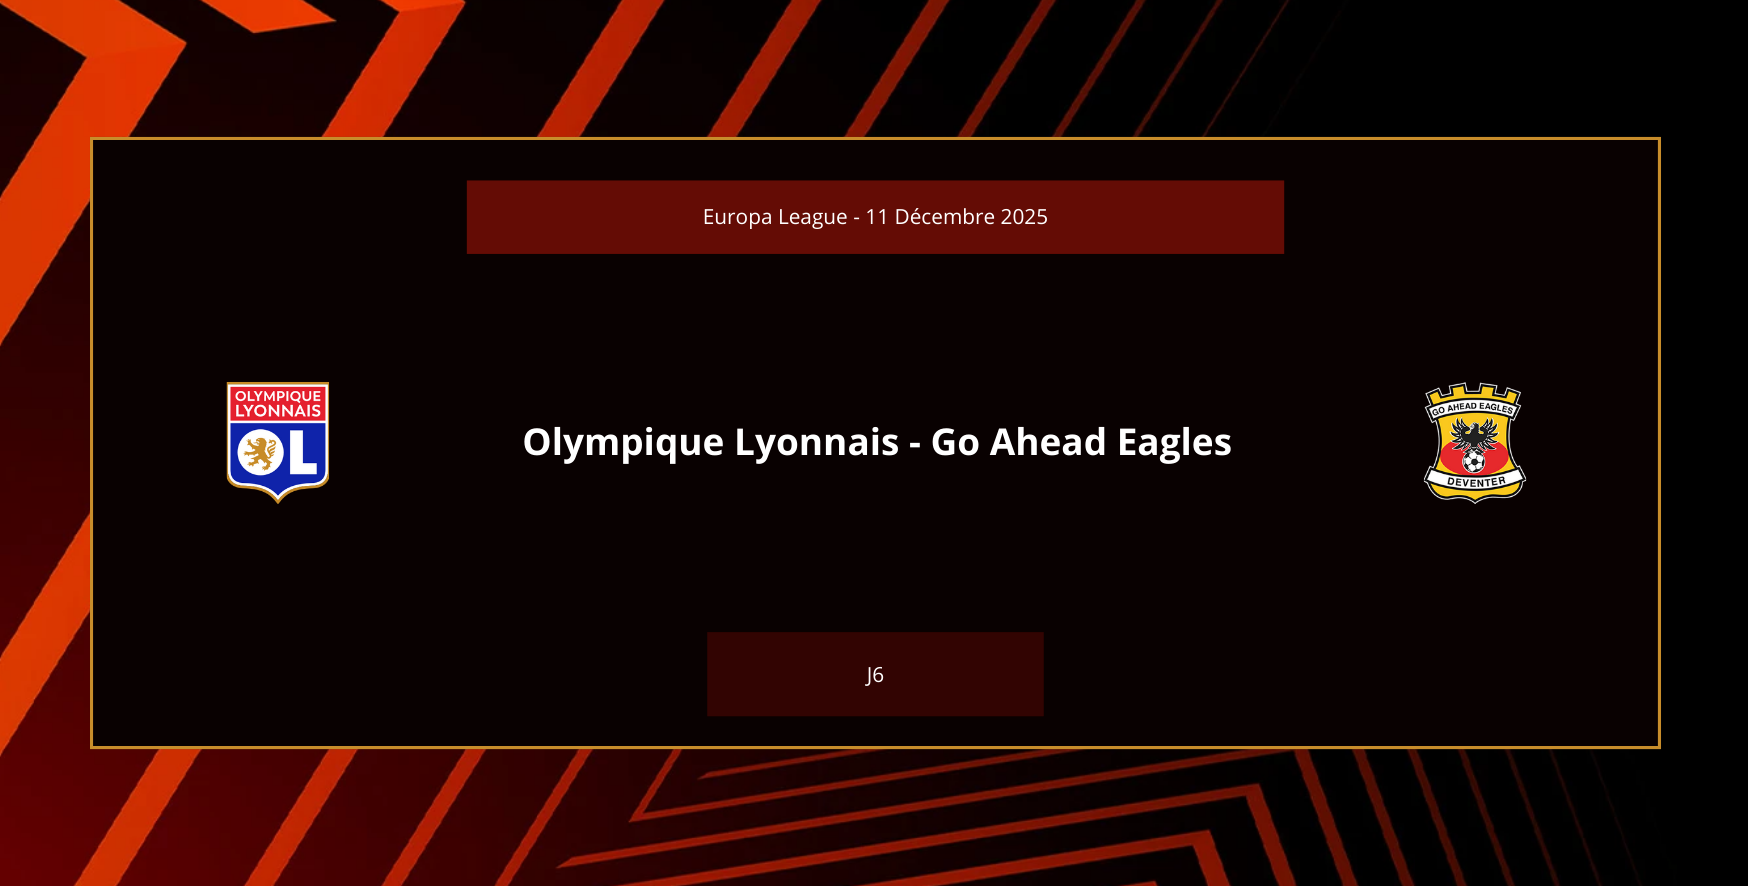
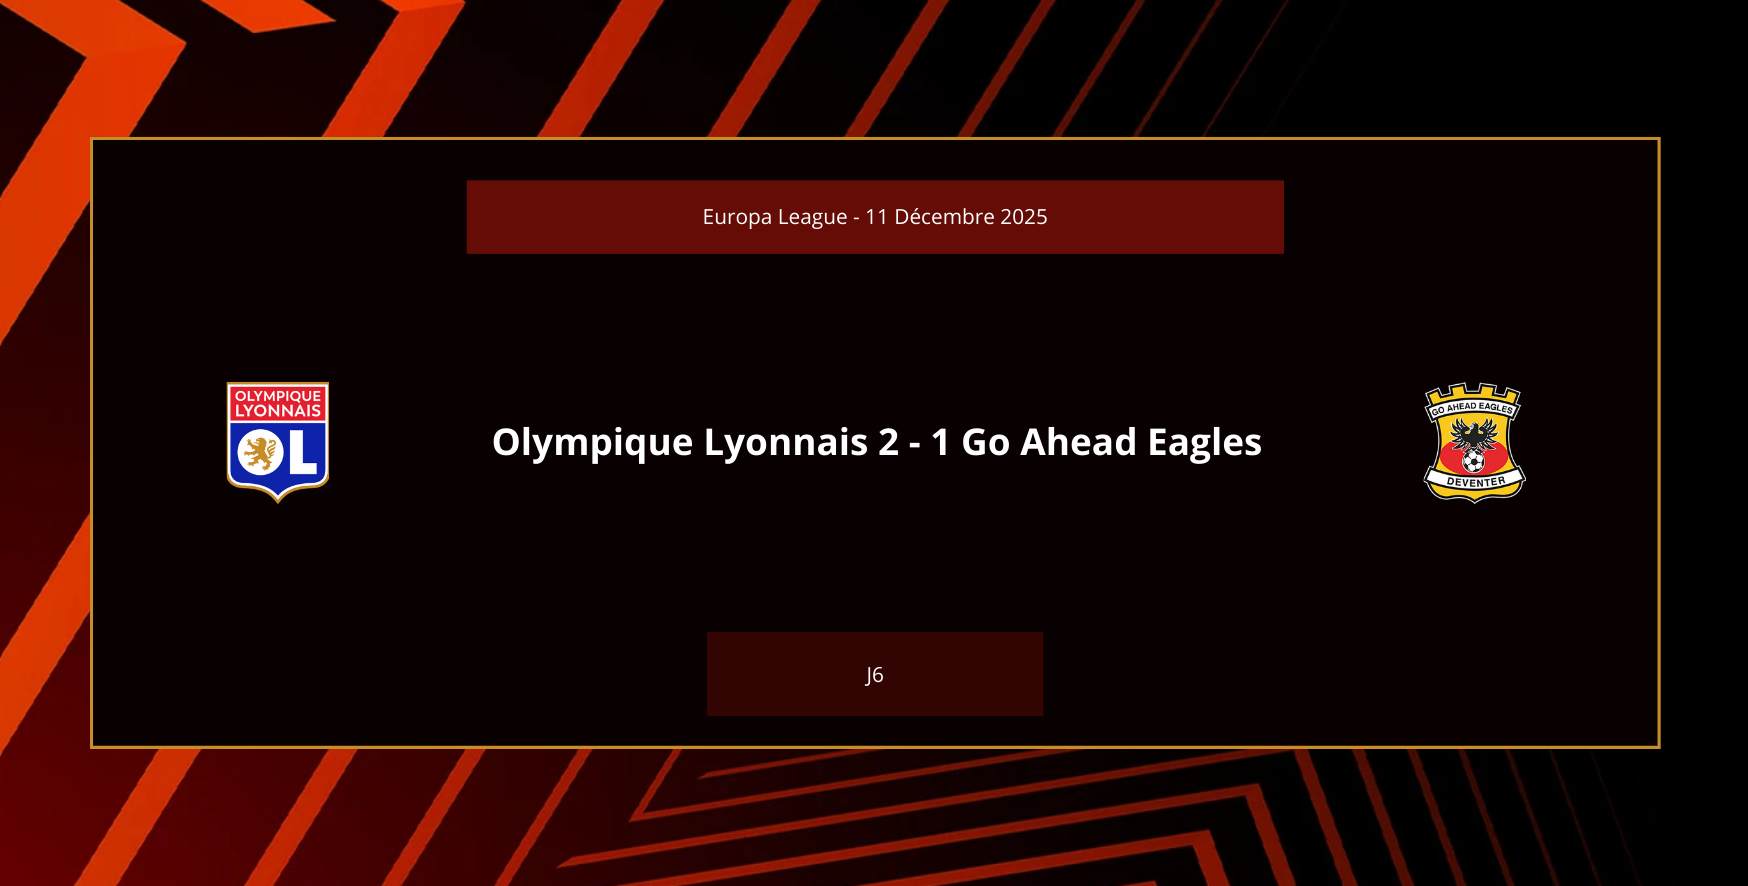
MAJ maths et classement EL

Changed region(s): [[0.278, 0.4876, 0.7414, 0.5181], [0.8032, 0.4266, 0.865, 0.579]]

diff --git a/index.html b/index.html
@@ -62,6 +62,11 @@
                     <section class="bordure">
                         <h3>Dernier Match</h3>
                         <article class="sous_box">
+                            <img src="/image_match/OL - GAE.png" alt="Olympique Lyonnais - Go Ahead Eagles" width="80%">
+                            <p class="bouton">Voir le match</p>
+                        </article>
+
+                        <article class="sous_box">
                             <img src="/image_match/FCL - OL.png" alt="FC Lorient 1 - 0 Olympique Lyonnais" width="80%">
                             <p class="bouton">Voir le match</p>
                         </article>
@@ -76,11 +81,6 @@
                             <p class="bouton">Voir le match</p>
                         </article>
 
-                        <article class="sous_box">
-                            <img src="/image_match/AJ-OL.png" alt="Aj Auxerre 0 - 0 Olympique Lyonnais" width="80%">
-                            <p class="bouton">Voir le match</p>
-                        </article>
-
                         <a href="match.html" class="bouton-fin">Voir plus de match</a>
                     </section>
                 </div>
@@ -88,15 +88,15 @@
                     <section class="bordure">
                         <h3>Match à venir</h3>
                         <article class="sous_box">
-                            <img src="/image_match/OL - GAE.png" alt="Olympique Lyonnais - Go Ahead Eagles" width="80%">
-                            <p class="bouton">Voir le match</p>
-                        </article>
-                        <article class="sous_box">
                             <img src="/image_match/OL-HAC.png" alt="Olympique Lyonnais - Havre AC" width="80%">
                             <p class="bouton">Voir le match</p>
                         </article>
                         <article class="sous_box">
                             <img src="/image_match/FCSCC-OL.png" alt="FC Saint Cyr Collonge - Ol" width="80%">
+                            <p class="bouton">Voir le match</p>
+                        </article>
+                        <article class="sous_box">
+                            <img src="/image_match/OL-ASM.png" alt="Olympique Lyonnais - AS Monaco" width="80%">
                             <p class="bouton">Voir le match</p>
                         </article>
                         <a href="match.html" class="bouton-fin">Voir plus de match</a>

diff --git a/classements-compétition/compétiton/europa-league.html b/classements-compétition/compétiton/europa-league.html
@@ -84,7 +84,7 @@
                     <h5>Meilleurs Buteurs :</h5>
                     <ul>
                         <li>Corentin Tolisso - 4 buts</li>
-                        <li>Tanner Tessmann - 1 but</li>
+                        <li>Afonso Moreira - 2 but</li>
                         <li>Adam Karabec - 1 but</li>
                     </ul>
                 </article>
@@ -99,25 +99,25 @@
                 <article class="sous_box">
                     <h5>Titulaires les plus utilisés :</h5>
                     <ul>
-                        <li>Ainsley Maintland-Niles - 5 matchs</li>
-                        <li>Pavel Sulc - 5 matchs</li>
-                        <li>Tyler Morton - 5 matchs</li>
+                        <li>Ainsley Maintland-Niles - 6 matchs</li>
+                        <li>Pavel Sulc - 6 matchs</li>
+                        <li>Tyler Morton - 6 matchs</li>
                 </article>
             </div>
 
             <div class="section">
                 <h4>Derniers Matchs :</h4>
                 <article class="sous_box">
-                    <img src="/image_match/MTA-OL.png" alt="Macabi Tel Aviv - Ol" width="80%">
+                    <img src="/image_match/OL - GAE.png" alt="Olympique Lyonnais 2-1 Go Ahead Eagles" width="80%">
                     <p class="bouton"><a>Voir le match</a></p>
                 </article>
                 <h4>Prochains Matchs :</h4>
                 <article class="sous_box">
-                    <img src="/image_match/OL - GAE.png" alt="Olympique Lyonnais - Go Ahead Eagles" width="80%">
+                    <img src="/image_match/YB-OL.png" alt="Young Boys - OL" width="80%">
                     <p class="bouton"><a>Voir le match</a></p>
                 </article>
                 <article class="sous_box">
-                    <img src="/image_match/YB-OL.png" alt="Young Boys - OL" width="80%">
+                    <img src="/image_match/OL-PAOK.png" alt="Ol - PAOK" width="80%">
                     <p class="bouton"><a>Voir le match</a></p>
                 </article>
                 <a href="/match.html" class="bouton-fin">Voir tous les matchs</a>
